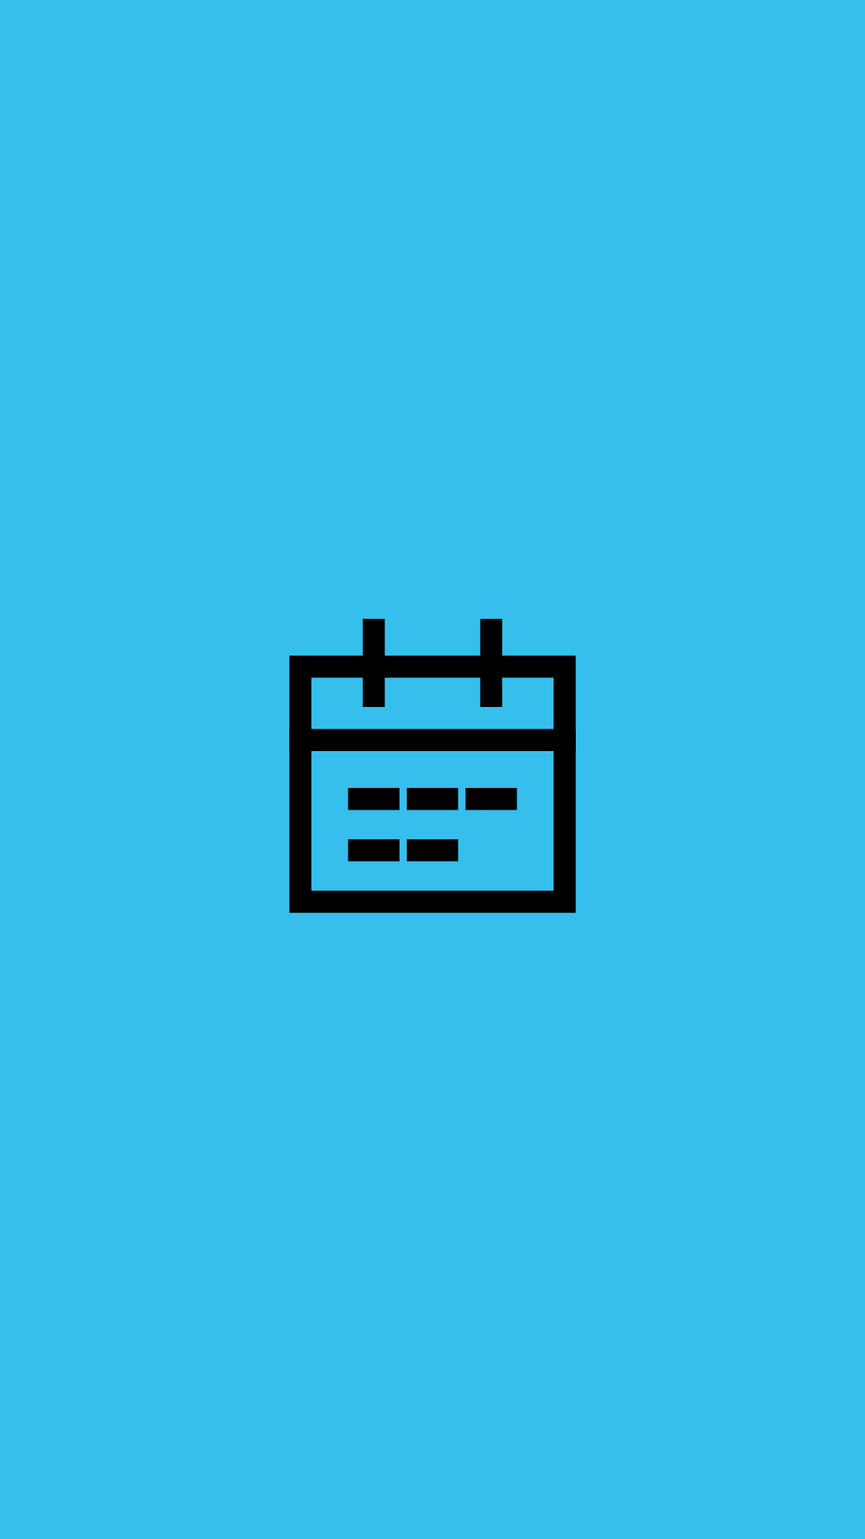
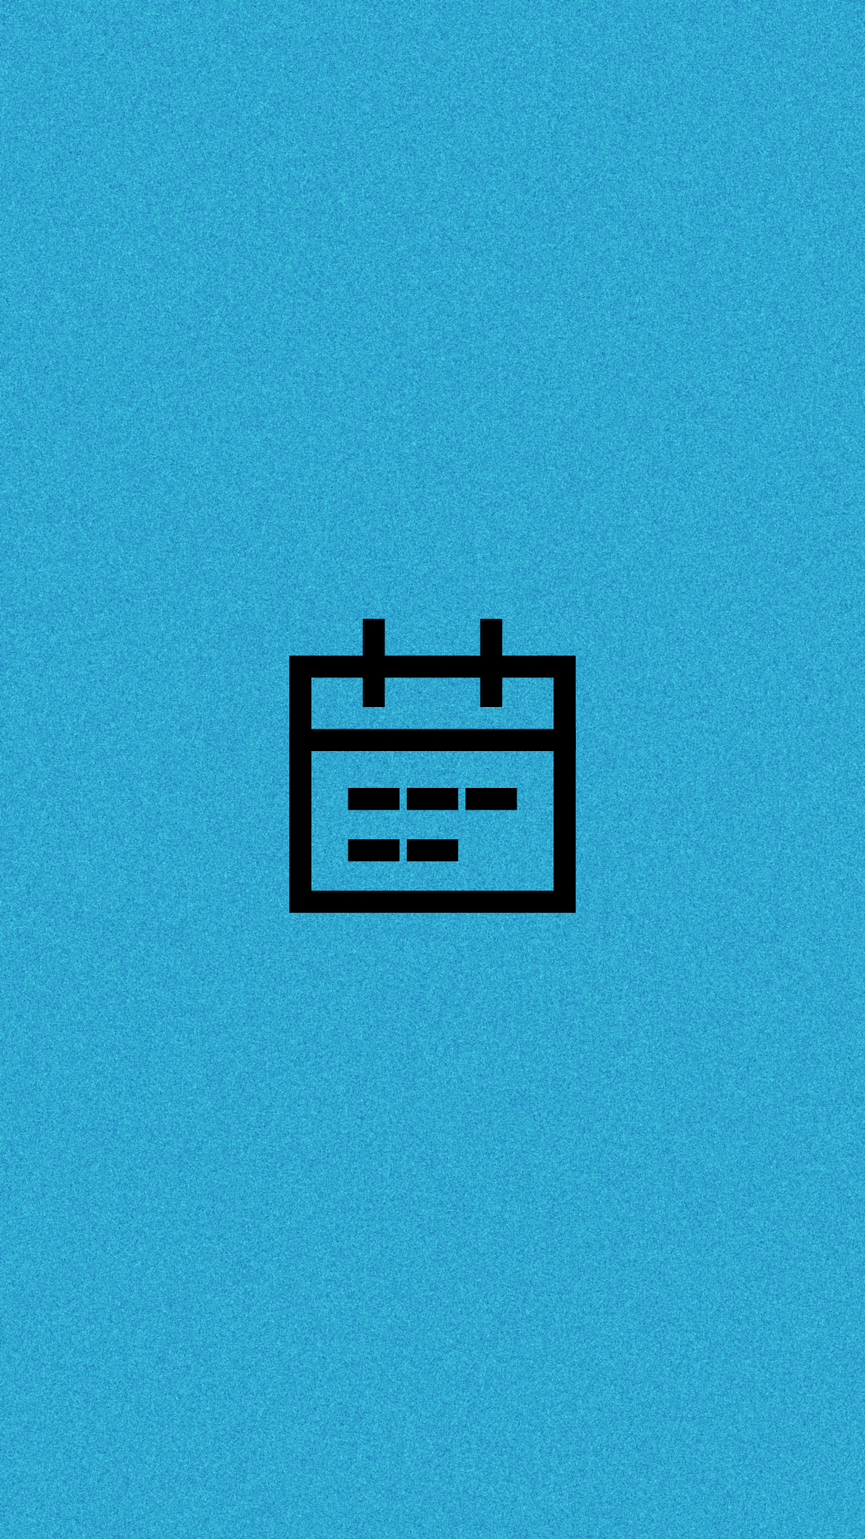
Destaques: azul mais escuro com granulação e escudo com falcão em P no TIME
Claude-Session: https://claude.ai/code/session_01LVriSKNRdrLtdVX5x94ct5

diff --git a/peregrinus/criacoes/destaques/destaque-app.html b/peregrinus/criacoes/destaques/destaque-app.html
@@ -2,8 +2,9 @@
 <html lang="pt-BR"><head><meta charset="utf-8"><style>
 *{margin:0;padding:0;box-sizing:border-box}
 html,body{width:1080px;height:1920px;overflow:hidden}
-body{background:#36BFEC;color:#000;display:flex;align-items:center;justify-content:center}
-.ic{width:440px;height:440px}
+body{background:#2FA8D0;color:#000;display:flex;align-items:center;justify-content:center}
+.grao{position:absolute;inset:0;width:100%;height:100%;mix-blend-mode:overlay;opacity:1}
+.ic{position:relative;width:440px;height:440px}
 .ic svg{width:100%;height:100%}
 </style></head>
-<body data-size="1080x1920"><div class="ic"><svg xmlns="http://www.w3.org/2000/svg" viewBox="0 0 24 24" fill="none" stroke="currentColor" stroke-width="1.5" stroke-linecap="square" stroke-linejoin="miter"><rect x="6.5" y="1.5" width="11" height="21" rx="1.5"/><path d="M10.5 19.5 H13.5"/><svg x="8.3" y="7.6" width="7.4" height="5.9" viewBox="20 23 690 548"><path fill="currentColor" fill-rule="evenodd" d="M305 25 H560 C650 25 707 105 707 218 C707 335 622 428 498 428 L430 568 H305 V362 H218 L172 295 H305 V265 H146 L98 195 H305 V165 H70 L22 100 H305 Z M367.7 484.6C366.9 483.7 367.9 480.5 369.7 478.4C370.5 477.5 371.1 476.2 371.7 473.8C372.6 470.1 373.4 468.1 375.0 466.1C375.6 465.4 376.8 463.3 377.6 461.4C378.4 459.5 379.8 456.9 380.7 455.6C381.6 454.3 382.8 452.0 383.4 450.6C384.0 449.1 385.3 446.8 386.2 445.3C387.1 443.9 388.9 440.5 390.2 437.8C393.0 432.2 398.6 421.6 399.7 420.1C400.1 419.5 401.1 417.7 401.9 416.0C402.8 414.3 404.4 411.5 405.5 409.8C406.6 408.1 408.0 405.7 408.5 404.6C409.0 403.4 410.3 401.2 411.3 399.7C412.4 398.1 413.8 395.6 414.5 394.1C415.2 392.6 416.5 390.2 417.4 388.9C418.3 387.5 419.7 384.8 420.6 382.9C421.6 380.9 422.9 378.6 423.6 377.6C424.3 376.6 425.6 374.2 426.5 372.3C427.4 370.3 428.8 367.9 429.5 366.8C430.3 365.8 431.4 363.8 432.0 362.4C432.7 361.0 434.1 358.6 435.1 357.0C436.2 355.5 437.5 352.9 438.2 351.3C438.9 349.8 440.2 347.4 441.1 346.0C442.1 344.7 443.6 342.2 444.4 340.5C445.3 338.7 446.6 336.5 447.3 335.5C448.0 334.4 449.4 331.8 450.4 329.7C451.4 327.5 452.7 325.2 453.3 324.4C453.9 323.7 455.2 321.5 456.2 319.5C457.2 317.5 458.7 314.9 459.6 313.7C460.4 312.5 461.7 310.3 462.3 308.9C462.9 307.5 464.2 305.3 465.2 303.9C466.2 302.6 467.5 300.1 468.2 298.5C468.9 296.8 470.2 294.4 471.1 293.1C472.1 291.9 473.5 289.4 474.3 287.6C475.2 285.9 476.4 283.6 477.2 282.7C477.9 281.7 479.3 279.3 480.2 277.3C481.1 275.4 482.6 272.7 483.5 271.4C484.5 270.0 485.7 268.0 486.2 266.8C486.7 265.7 488.0 263.4 489.1 261.9C490.1 260.3 491.5 257.9 492.1 256.5C492.7 255.2 494.0 253.0 494.9 251.7C495.8 250.4 497.3 247.7 498.2 245.8C499.1 243.8 500.6 241.2 501.5 239.9C502.4 238.6 503.7 236.3 504.5 234.7C505.2 233.1 506.6 230.7 507.5 229.4C508.4 228.1 509.8 225.8 510.5 224.3C511.3 222.7 512.3 220.9 512.8 220.2C514.2 218.5 519.4 208.1 519.4 207.1C519.4 205.6 518.7 204.5 516.7 202.5C514.5 200.4 512.7 199.3 508.2 197.6C506.7 197.0 503.9 195.7 502.2 194.7C500.4 193.7 497.6 192.3 496.0 191.7C494.3 191.0 491.9 189.7 490.5 188.8C489.2 187.9 486.4 186.5 484.3 185.8C482.2 185.0 479.6 183.8 478.5 183.1C477.4 182.3 474.7 180.9 472.6 180.0C470.5 179.0 467.9 177.6 466.8 176.8C465.7 176.1 463.1 174.7 461.0 173.9C459.0 173.0 456.3 171.6 455.0 170.7C453.8 169.9 451.2 168.7 449.4 168.0C447.6 167.3 444.7 166.0 443.1 165.0C441.4 164.0 438.5 162.6 436.6 161.9C434.7 161.1 432.0 159.9 430.8 159.1C429.5 158.2 427.4 157.1 426.2 156.6C422.4 154.9 421.3 153.2 423.0 151.7C423.8 150.9 426.1 150.9 492.0 150.7C520.4 150.6 521.6 150.7 530.2 153.0C533.2 153.8 537.5 154.8 539.8 155.3C545.8 156.4 549.1 157.4 552.9 159.2C554.8 160.1 558.0 161.3 560.0 162.0C562.6 162.8 564.6 163.8 566.6 165.2C568.2 166.3 570.3 167.6 571.4 168.1C573.9 169.4 580.4 175.4 582.1 177.9C583.6 180.1 588.2 183.8 590.5 184.6C591.3 184.9 593.6 185.4 595.5 185.6C600.0 186.2 604.2 187.5 606.6 189.1C607.6 189.8 609.5 190.9 610.8 191.6C614.1 193.4 616.1 195.2 619.3 199.7C622.7 204.4 622.9 204.9 624.1 208.9C626.5 216.5 626.7 222.3 625.1 230.2C623.9 236.1 623.0 238.6 621.0 241.7C620.0 243.2 618.5 245.7 617.8 247.1C616.3 250.0 615.4 250.9 613.5 250.9C611.7 250.9 610.1 249.5 608.0 246.1C605.5 242.0 604.9 241.4 599.8 238.6C591.6 234.0 591.1 233.9 577.5 233.9C566.2 233.9 560.3 234.5 555.1 236.4C543.3 240.6 542.7 240.9 539.4 243.2C538.2 244.1 536.2 245.3 534.9 245.9C533.7 246.6 531.6 247.9 530.4 248.9C529.2 249.9 527.3 251.3 526.3 252.0C522.1 254.8 512.4 264.3 510.1 267.8C509.4 268.9 508.1 270.6 507.2 271.5C506.3 272.4 505.0 274.4 504.2 275.8C503.4 277.3 501.9 279.6 500.8 281.1C499.7 282.5 498.3 284.7 497.7 285.9C497.1 287.2 495.8 289.2 494.9 290.4C494.0 291.7 492.6 293.9 491.8 295.3C491.0 296.8 489.6 298.9 488.7 300.0C487.8 301.1 486.6 303.0 486.0 304.1C485.4 305.3 484.0 307.5 482.9 309.0C481.7 310.5 480.4 312.7 479.8 313.8C479.3 314.8 478.1 316.8 477.1 318.1C476.1 319.4 474.5 321.8 473.6 323.4C472.7 325.1 471.3 327.4 470.4 328.5C469.5 329.6 468.3 331.7 467.6 333.0C466.9 334.3 465.7 336.3 464.8 337.4C463.9 338.5 462.5 340.7 461.6 342.3C460.8 343.9 459.4 346.1 458.4 347.2C457.5 348.4 456.1 350.5 455.4 351.9C454.6 353.4 453.4 355.4 452.6 356.4C451.8 357.5 450.6 359.5 449.9 360.9C449.2 362.4 447.8 364.6 446.8 365.8C445.9 367.0 444.5 369.2 443.7 370.7C443.0 372.1 441.5 374.5 440.4 375.9C439.4 377.4 438.1 379.3 437.6 380.2C437.2 381.2 435.9 383.1 434.8 384.6C433.7 386.0 432.1 388.5 431.3 390.0C430.4 391.5 429.1 393.5 428.4 394.4C427.7 395.2 426.3 397.3 425.2 399.0C424.2 400.7 422.9 402.6 422.4 403.3C421.9 403.9 420.9 405.6 420.1 407.0C419.4 408.5 417.8 411.0 416.6 412.7C415.5 414.3 413.9 416.8 413.1 418.1C412.3 419.5 410.8 421.9 409.8 423.5C408.7 425.0 406.3 428.7 404.4 431.5C402.6 434.4 400.4 437.6 399.5 438.8C398.6 439.9 397.1 442.2 396.2 444.0C395.2 445.7 393.8 448.0 393.0 449.0C392.2 450.1 391.1 452.0 390.4 453.2C389.8 454.4 388.5 456.4 387.6 457.5C385.9 459.6 385.6 460.0 383.9 463.9C383.4 465.0 382.3 466.8 381.4 467.8C380.5 468.7 379.0 471.0 378.0 472.8C376.7 475.3 375.9 476.4 374.4 477.5C373.0 478.5 372.3 479.5 371.4 481.4C370.7 482.7 369.9 484.1 369.7 484.4C369.3 484.9 368.2 485.0 367.7 484.6Z M562.0 197.1C563.7 196.2 568.8 191.6 569.4 190.5C570.2 188.9 570.1 185.9 569.2 184.1C567.9 181.5 564.9 180.0 559.0 179.2C557.3 179.0 555.0 178.5 553.9 178.1C549.4 176.4 547.5 176.4 545.8 178.0C544.2 179.5 544.8 184.9 547.0 188.5C548.3 190.5 553.1 195.9 554.3 196.6C556.7 198.1 559.8 198.3 562.0 197.1Z"/></svg></svg></div></body></html>
+<body data-size="1080x1920"><img class="grao" src="grao.png" alt=""><div class="ic"><svg xmlns="http://www.w3.org/2000/svg" viewBox="0 0 24 24" fill="none" stroke="currentColor" stroke-width="1.5" stroke-linecap="square" stroke-linejoin="miter"><rect x="6.5" y="1.5" width="11" height="21" rx="1.5"/><path d="M10.5 19.5 H13.5"/><svg x="8.3" y="7.6" width="7.4" height="5.9" viewBox="20 23 690 548"><path fill="currentColor" fill-rule="evenodd" d="M305 25 H560 C650 25 707 105 707 218 C707 335 622 428 498 428 L430 568 H305 V362 H218 L172 295 H305 V265 H146 L98 195 H305 V165 H70 L22 100 H305 Z M367.7 484.6C366.9 483.7 367.9 480.5 369.7 478.4C370.5 477.5 371.1 476.2 371.7 473.8C372.6 470.1 373.4 468.1 375.0 466.1C375.6 465.4 376.8 463.3 377.6 461.4C378.4 459.5 379.8 456.9 380.7 455.6C381.6 454.3 382.8 452.0 383.4 450.6C384.0 449.1 385.3 446.8 386.2 445.3C387.1 443.9 388.9 440.5 390.2 437.8C393.0 432.2 398.6 421.6 399.7 420.1C400.1 419.5 401.1 417.7 401.9 416.0C402.8 414.3 404.4 411.5 405.5 409.8C406.6 408.1 408.0 405.7 408.5 404.6C409.0 403.4 410.3 401.2 411.3 399.7C412.4 398.1 413.8 395.6 414.5 394.1C415.2 392.6 416.5 390.2 417.4 388.9C418.3 387.5 419.7 384.8 420.6 382.9C421.6 380.9 422.9 378.6 423.6 377.6C424.3 376.6 425.6 374.2 426.5 372.3C427.4 370.3 428.8 367.9 429.5 366.8C430.3 365.8 431.4 363.8 432.0 362.4C432.7 361.0 434.1 358.6 435.1 357.0C436.2 355.5 437.5 352.9 438.2 351.3C438.9 349.8 440.2 347.4 441.1 346.0C442.1 344.7 443.6 342.2 444.4 340.5C445.3 338.7 446.6 336.5 447.3 335.5C448.0 334.4 449.4 331.8 450.4 329.7C451.4 327.5 452.7 325.2 453.3 324.4C453.9 323.7 455.2 321.5 456.2 319.5C457.2 317.5 458.7 314.9 459.6 313.7C460.4 312.5 461.7 310.3 462.3 308.9C462.9 307.5 464.2 305.3 465.2 303.9C466.2 302.6 467.5 300.1 468.2 298.5C468.9 296.8 470.2 294.4 471.1 293.1C472.1 291.9 473.5 289.4 474.3 287.6C475.2 285.9 476.4 283.6 477.2 282.7C477.9 281.7 479.3 279.3 480.2 277.3C481.1 275.4 482.6 272.7 483.5 271.4C484.5 270.0 485.7 268.0 486.2 266.8C486.7 265.7 488.0 263.4 489.1 261.9C490.1 260.3 491.5 257.9 492.1 256.5C492.7 255.2 494.0 253.0 494.9 251.7C495.8 250.4 497.3 247.7 498.2 245.8C499.1 243.8 500.6 241.2 501.5 239.9C502.4 238.6 503.7 236.3 504.5 234.7C505.2 233.1 506.6 230.7 507.5 229.4C508.4 228.1 509.8 225.8 510.5 224.3C511.3 222.7 512.3 220.9 512.8 220.2C514.2 218.5 519.4 208.1 519.4 207.1C519.4 205.6 518.7 204.5 516.7 202.5C514.5 200.4 512.7 199.3 508.2 197.6C506.7 197.0 503.9 195.7 502.2 194.7C500.4 193.7 497.6 192.3 496.0 191.7C494.3 191.0 491.9 189.7 490.5 188.8C489.2 187.9 486.4 186.5 484.3 185.8C482.2 185.0 479.6 183.8 478.5 183.1C477.4 182.3 474.7 180.9 472.6 180.0C470.5 179.0 467.9 177.6 466.8 176.8C465.7 176.1 463.1 174.7 461.0 173.9C459.0 173.0 456.3 171.6 455.0 170.7C453.8 169.9 451.2 168.7 449.4 168.0C447.6 167.3 444.7 166.0 443.1 165.0C441.4 164.0 438.5 162.6 436.6 161.9C434.7 161.1 432.0 159.9 430.8 159.1C429.5 158.2 427.4 157.1 426.2 156.6C422.4 154.9 421.3 153.2 423.0 151.7C423.8 150.9 426.1 150.9 492.0 150.7C520.4 150.6 521.6 150.7 530.2 153.0C533.2 153.8 537.5 154.8 539.8 155.3C545.8 156.4 549.1 157.4 552.9 159.2C554.8 160.1 558.0 161.3 560.0 162.0C562.6 162.8 564.6 163.8 566.6 165.2C568.2 166.3 570.3 167.6 571.4 168.1C573.9 169.4 580.4 175.4 582.1 177.9C583.6 180.1 588.2 183.8 590.5 184.6C591.3 184.9 593.6 185.4 595.5 185.6C600.0 186.2 604.2 187.5 606.6 189.1C607.6 189.8 609.5 190.9 610.8 191.6C614.1 193.4 616.1 195.2 619.3 199.7C622.7 204.4 622.9 204.9 624.1 208.9C626.5 216.5 626.7 222.3 625.1 230.2C623.9 236.1 623.0 238.6 621.0 241.7C620.0 243.2 618.5 245.7 617.8 247.1C616.3 250.0 615.4 250.9 613.5 250.9C611.7 250.9 610.1 249.5 608.0 246.1C605.5 242.0 604.9 241.4 599.8 238.6C591.6 234.0 591.1 233.9 577.5 233.9C566.2 233.9 560.3 234.5 555.1 236.4C543.3 240.6 542.7 240.9 539.4 243.2C538.2 244.1 536.2 245.3 534.9 245.9C533.7 246.6 531.6 247.9 530.4 248.9C529.2 249.9 527.3 251.3 526.3 252.0C522.1 254.8 512.4 264.3 510.1 267.8C509.4 268.9 508.1 270.6 507.2 271.5C506.3 272.4 505.0 274.4 504.2 275.8C503.4 277.3 501.9 279.6 500.8 281.1C499.7 282.5 498.3 284.7 497.7 285.9C497.1 287.2 495.8 289.2 494.9 290.4C494.0 291.7 492.6 293.9 491.8 295.3C491.0 296.8 489.6 298.9 488.7 300.0C487.8 301.1 486.6 303.0 486.0 304.1C485.4 305.3 484.0 307.5 482.9 309.0C481.7 310.5 480.4 312.7 479.8 313.8C479.3 314.8 478.1 316.8 477.1 318.1C476.1 319.4 474.5 321.8 473.6 323.4C472.7 325.1 471.3 327.4 470.4 328.5C469.5 329.6 468.3 331.7 467.6 333.0C466.9 334.3 465.7 336.3 464.8 337.4C463.9 338.5 462.5 340.7 461.6 342.3C460.8 343.9 459.4 346.1 458.4 347.2C457.5 348.4 456.1 350.5 455.4 351.9C454.6 353.4 453.4 355.4 452.6 356.4C451.8 357.5 450.6 359.5 449.9 360.9C449.2 362.4 447.8 364.6 446.8 365.8C445.9 367.0 444.5 369.2 443.7 370.7C443.0 372.1 441.5 374.5 440.4 375.9C439.4 377.4 438.1 379.3 437.6 380.2C437.2 381.2 435.9 383.1 434.8 384.6C433.7 386.0 432.1 388.5 431.3 390.0C430.4 391.5 429.1 393.5 428.4 394.4C427.7 395.2 426.3 397.3 425.2 399.0C424.2 400.7 422.9 402.6 422.4 403.3C421.9 403.9 420.9 405.6 420.1 407.0C419.4 408.5 417.8 411.0 416.6 412.7C415.5 414.3 413.9 416.8 413.1 418.1C412.3 419.5 410.8 421.9 409.8 423.5C408.7 425.0 406.3 428.7 404.4 431.5C402.6 434.4 400.4 437.6 399.5 438.8C398.6 439.9 397.1 442.2 396.2 444.0C395.2 445.7 393.8 448.0 393.0 449.0C392.2 450.1 391.1 452.0 390.4 453.2C389.8 454.4 388.5 456.4 387.6 457.5C385.9 459.6 385.6 460.0 383.9 463.9C383.4 465.0 382.3 466.8 381.4 467.8C380.5 468.7 379.0 471.0 378.0 472.8C376.7 475.3 375.9 476.4 374.4 477.5C373.0 478.5 372.3 479.5 371.4 481.4C370.7 482.7 369.9 484.1 369.7 484.4C369.3 484.9 368.2 485.0 367.7 484.6Z M562.0 197.1C563.7 196.2 568.8 191.6 569.4 190.5C570.2 188.9 570.1 185.9 569.2 184.1C567.9 181.5 564.9 180.0 559.0 179.2C557.3 179.0 555.0 178.5 553.9 178.1C549.4 176.4 547.5 176.4 545.8 178.0C544.2 179.5 544.8 184.9 547.0 188.5C548.3 190.5 553.1 195.9 554.3 196.6C556.7 198.1 559.8 198.3 562.0 197.1Z"/></svg></svg></div></body></html>

diff --git a/peregrinus/criacoes/destaques/destaque-time.html b/peregrinus/criacoes/destaques/destaque-time.html
@@ -2,8 +2,9 @@
 <html lang="pt-BR"><head><meta charset="utf-8"><style>
 *{margin:0;padding:0;box-sizing:border-box}
 html,body{width:1080px;height:1920px;overflow:hidden}
-body{background:#36BFEC;color:#000;display:flex;align-items:center;justify-content:center}
-.ic{width:440px;height:440px}
+body{background:#2FA8D0;color:#000;display:flex;align-items:center;justify-content:center}
+.grao{position:absolute;inset:0;width:100%;height:100%;mix-blend-mode:overlay;opacity:1}
+.ic{position:relative;width:440px;height:440px}
 .ic svg{width:100%;height:100%}
 </style></head>
-<body data-size="1080x1920"><div class="ic"><svg xmlns="http://www.w3.org/2000/svg" viewBox="0 0 24 24" fill="none" stroke="currentColor" stroke-width="1.5" stroke-linecap="square" stroke-linejoin="miter"><path d="M9 3 C9.5 4.6 10.6 5.3 12 5.3 C13.4 5.3 14.5 4.6 15 3 L21 6 L19 10.5 L17 9.5 V21 H7 V9.5 L5 10.5 L3 6 Z"/><path d="M10.5 12 H13.5 M10.5 14.5 H13.5"/></svg></div></body></html>
+<body data-size="1080x1920"><img class="grao" src="grao.png" alt=""><div class="ic"><svg xmlns="http://www.w3.org/2000/svg" viewBox="0 0 24 24" fill="none" stroke="currentColor" stroke-width="1.5" stroke-linecap="square" stroke-linejoin="miter"><path d="M12 1.8 L20.5 4.8 V11 C20.5 16.6 16.8 20.4 12 22.2 C7.2 20.4 3.5 16.6 3.5 11 V4.8 Z"/><svg x="7.2" y="7.2" width="9.6" height="7.6" viewBox="20 23 690 548"><path fill="currentColor" fill-rule="evenodd" d="M305 25 H560 C650 25 707 105 707 218 C707 335 622 428 498 428 L430 568 H305 V362 H218 L172 295 H305 V265 H146 L98 195 H305 V165 H70 L22 100 H305 Z M367.7 484.6C366.9 483.7 367.9 480.5 369.7 478.4C370.5 477.5 371.1 476.2 371.7 473.8C372.6 470.1 373.4 468.1 375.0 466.1C375.6 465.4 376.8 463.3 377.6 461.4C378.4 459.5 379.8 456.9 380.7 455.6C381.6 454.3 382.8 452.0 383.4 450.6C384.0 449.1 385.3 446.8 386.2 445.3C387.1 443.9 388.9 440.5 390.2 437.8C393.0 432.2 398.6 421.6 399.7 420.1C400.1 419.5 401.1 417.7 401.9 416.0C402.8 414.3 404.4 411.5 405.5 409.8C406.6 408.1 408.0 405.7 408.5 404.6C409.0 403.4 410.3 401.2 411.3 399.7C412.4 398.1 413.8 395.6 414.5 394.1C415.2 392.6 416.5 390.2 417.4 388.9C418.3 387.5 419.7 384.8 420.6 382.9C421.6 380.9 422.9 378.6 423.6 377.6C424.3 376.6 425.6 374.2 426.5 372.3C427.4 370.3 428.8 367.9 429.5 366.8C430.3 365.8 431.4 363.8 432.0 362.4C432.7 361.0 434.1 358.6 435.1 357.0C436.2 355.5 437.5 352.9 438.2 351.3C438.9 349.8 440.2 347.4 441.1 346.0C442.1 344.7 443.6 342.2 444.4 340.5C445.3 338.7 446.6 336.5 447.3 335.5C448.0 334.4 449.4 331.8 450.4 329.7C451.4 327.5 452.7 325.2 453.3 324.4C453.9 323.7 455.2 321.5 456.2 319.5C457.2 317.5 458.7 314.9 459.6 313.7C460.4 312.5 461.7 310.3 462.3 308.9C462.9 307.5 464.2 305.3 465.2 303.9C466.2 302.6 467.5 300.1 468.2 298.5C468.9 296.8 470.2 294.4 471.1 293.1C472.1 291.9 473.5 289.4 474.3 287.6C475.2 285.9 476.4 283.6 477.2 282.7C477.9 281.7 479.3 279.3 480.2 277.3C481.1 275.4 482.6 272.7 483.5 271.4C484.5 270.0 485.7 268.0 486.2 266.8C486.7 265.7 488.0 263.4 489.1 261.9C490.1 260.3 491.5 257.9 492.1 256.5C492.7 255.2 494.0 253.0 494.9 251.7C495.8 250.4 497.3 247.7 498.2 245.8C499.1 243.8 500.6 241.2 501.5 239.9C502.4 238.6 503.7 236.3 504.5 234.7C505.2 233.1 506.6 230.7 507.5 229.4C508.4 228.1 509.8 225.8 510.5 224.3C511.3 222.7 512.3 220.9 512.8 220.2C514.2 218.5 519.4 208.1 519.4 207.1C519.4 205.6 518.7 204.5 516.7 202.5C514.5 200.4 512.7 199.3 508.2 197.6C506.7 197.0 503.9 195.7 502.2 194.7C500.4 193.7 497.6 192.3 496.0 191.7C494.3 191.0 491.9 189.7 490.5 188.8C489.2 187.9 486.4 186.5 484.3 185.8C482.2 185.0 479.6 183.8 478.5 183.1C477.4 182.3 474.7 180.9 472.6 180.0C470.5 179.0 467.9 177.6 466.8 176.8C465.7 176.1 463.1 174.7 461.0 173.9C459.0 173.0 456.3 171.6 455.0 170.7C453.8 169.9 451.2 168.7 449.4 168.0C447.6 167.3 444.7 166.0 443.1 165.0C441.4 164.0 438.5 162.6 436.6 161.9C434.7 161.1 432.0 159.9 430.8 159.1C429.5 158.2 427.4 157.1 426.2 156.6C422.4 154.9 421.3 153.2 423.0 151.7C423.8 150.9 426.1 150.9 492.0 150.7C520.4 150.6 521.6 150.7 530.2 153.0C533.2 153.8 537.5 154.8 539.8 155.3C545.8 156.4 549.1 157.4 552.9 159.2C554.8 160.1 558.0 161.3 560.0 162.0C562.6 162.8 564.6 163.8 566.6 165.2C568.2 166.3 570.3 167.6 571.4 168.1C573.9 169.4 580.4 175.4 582.1 177.9C583.6 180.1 588.2 183.8 590.5 184.6C591.3 184.9 593.6 185.4 595.5 185.6C600.0 186.2 604.2 187.5 606.6 189.1C607.6 189.8 609.5 190.9 610.8 191.6C614.1 193.4 616.1 195.2 619.3 199.7C622.7 204.4 622.9 204.9 624.1 208.9C626.5 216.5 626.7 222.3 625.1 230.2C623.9 236.1 623.0 238.6 621.0 241.7C620.0 243.2 618.5 245.7 617.8 247.1C616.3 250.0 615.4 250.9 613.5 250.9C611.7 250.9 610.1 249.5 608.0 246.1C605.5 242.0 604.9 241.4 599.8 238.6C591.6 234.0 591.1 233.9 577.5 233.9C566.2 233.9 560.3 234.5 555.1 236.4C543.3 240.6 542.7 240.9 539.4 243.2C538.2 244.1 536.2 245.3 534.9 245.9C533.7 246.6 531.6 247.9 530.4 248.9C529.2 249.9 527.3 251.3 526.3 252.0C522.1 254.8 512.4 264.3 510.1 267.8C509.4 268.9 508.1 270.6 507.2 271.5C506.3 272.4 505.0 274.4 504.2 275.8C503.4 277.3 501.9 279.6 500.8 281.1C499.7 282.5 498.3 284.7 497.7 285.9C497.1 287.2 495.8 289.2 494.9 290.4C494.0 291.7 492.6 293.9 491.8 295.3C491.0 296.8 489.6 298.9 488.7 300.0C487.8 301.1 486.6 303.0 486.0 304.1C485.4 305.3 484.0 307.5 482.9 309.0C481.7 310.5 480.4 312.7 479.8 313.8C479.3 314.8 478.1 316.8 477.1 318.1C476.1 319.4 474.5 321.8 473.6 323.4C472.7 325.1 471.3 327.4 470.4 328.5C469.5 329.6 468.3 331.7 467.6 333.0C466.9 334.3 465.7 336.3 464.8 337.4C463.9 338.5 462.5 340.7 461.6 342.3C460.8 343.9 459.4 346.1 458.4 347.2C457.5 348.4 456.1 350.5 455.4 351.9C454.6 353.4 453.4 355.4 452.6 356.4C451.8 357.5 450.6 359.5 449.9 360.9C449.2 362.4 447.8 364.6 446.8 365.8C445.9 367.0 444.5 369.2 443.7 370.7C443.0 372.1 441.5 374.5 440.4 375.9C439.4 377.4 438.1 379.3 437.6 380.2C437.2 381.2 435.9 383.1 434.8 384.6C433.7 386.0 432.1 388.5 431.3 390.0C430.4 391.5 429.1 393.5 428.4 394.4C427.7 395.2 426.3 397.3 425.2 399.0C424.2 400.7 422.9 402.6 422.4 403.3C421.9 403.9 420.9 405.6 420.1 407.0C419.4 408.5 417.8 411.0 416.6 412.7C415.5 414.3 413.9 416.8 413.1 418.1C412.3 419.5 410.8 421.9 409.8 423.5C408.7 425.0 406.3 428.7 404.4 431.5C402.6 434.4 400.4 437.6 399.5 438.8C398.6 439.9 397.1 442.2 396.2 444.0C395.2 445.7 393.8 448.0 393.0 449.0C392.2 450.1 391.1 452.0 390.4 453.2C389.8 454.4 388.5 456.4 387.6 457.5C385.9 459.6 385.6 460.0 383.9 463.9C383.4 465.0 382.3 466.8 381.4 467.8C380.5 468.7 379.0 471.0 378.0 472.8C376.7 475.3 375.9 476.4 374.4 477.5C373.0 478.5 372.3 479.5 371.4 481.4C370.7 482.7 369.9 484.1 369.7 484.4C369.3 484.9 368.2 485.0 367.7 484.6Z M562.0 197.1C563.7 196.2 568.8 191.6 569.4 190.5C570.2 188.9 570.1 185.9 569.2 184.1C567.9 181.5 564.9 180.0 559.0 179.2C557.3 179.0 555.0 178.5 553.9 178.1C549.4 176.4 547.5 176.4 545.8 178.0C544.2 179.5 544.8 184.9 547.0 188.5C548.3 190.5 553.1 195.9 554.3 196.6C556.7 198.1 559.8 198.3 562.0 197.1Z"/></svg></svg></div></body></html>

diff --git a/peregrinus/criacoes/destaques/destaque-grupo.html b/peregrinus/criacoes/destaques/destaque-grupo.html
@@ -2,8 +2,9 @@
 <html lang="pt-BR"><head><meta charset="utf-8"><style>
 *{margin:0;padding:0;box-sizing:border-box}
 html,body{width:1080px;height:1920px;overflow:hidden}
-body{background:#36BFEC;color:#000;display:flex;align-items:center;justify-content:center}
-.ic{width:440px;height:440px}
+body{background:#2FA8D0;color:#000;display:flex;align-items:center;justify-content:center}
+.grao{position:absolute;inset:0;width:100%;height:100%;mix-blend-mode:overlay;opacity:1}
+.ic{position:relative;width:440px;height:440px}
 .ic svg{width:100%;height:100%}
 </style></head>
-<body data-size="1080x1920"><div class="ic"><svg xmlns="http://www.w3.org/2000/svg" viewBox="0 0 24 24" width="96" height="96" fill="none" stroke="currentColor" stroke-width="1.5" stroke-linecap="square" stroke-linejoin="miter"><circle cx="12" cy="7.5" r="3"/><circle cx="5" cy="9.5" r="2.2"/><circle cx="19" cy="9.5" r="2.2"/><path d="M6.5 20 C 7 15, 17 15, 17.5 20 M1.5 18.5 C 2 15, 6 14.2 8 15 M22.5 18.5 C 22 15, 18 14.2 16 15"/></svg></div></body></html>
+<body data-size="1080x1920"><img class="grao" src="grao.png" alt=""><div class="ic"><svg xmlns="http://www.w3.org/2000/svg" viewBox="0 0 24 24" width="96" height="96" fill="none" stroke="currentColor" stroke-width="1.5" stroke-linecap="square" stroke-linejoin="miter"><circle cx="12" cy="7.5" r="3"/><circle cx="5" cy="9.5" r="2.2"/><circle cx="19" cy="9.5" r="2.2"/><path d="M6.5 20 C 7 15, 17 15, 17.5 20 M1.5 18.5 C 2 15, 6 14.2 8 15 M22.5 18.5 C 22 15, 18 14.2 16 15"/></svg></div></body></html>

diff --git a/peregrinus/criacoes/destaques/destaque-encontros.html b/peregrinus/criacoes/destaques/destaque-encontros.html
@@ -2,8 +2,9 @@
 <html lang="pt-BR"><head><meta charset="utf-8"><style>
 *{margin:0;padding:0;box-sizing:border-box}
 html,body{width:1080px;height:1920px;overflow:hidden}
-body{background:#36BFEC;color:#000;display:flex;align-items:center;justify-content:center}
-.ic{width:440px;height:440px}
+body{background:#2FA8D0;color:#000;display:flex;align-items:center;justify-content:center}
+.grao{position:absolute;inset:0;width:100%;height:100%;mix-blend-mode:overlay;opacity:1}
+.ic{position:relative;width:440px;height:440px}
 .ic svg{width:100%;height:100%}
 </style></head>
-<body data-size="1080x1920"><div class="ic"><svg xmlns="http://www.w3.org/2000/svg" viewBox="0 0 24 24" width="96" height="96" fill="none" stroke="currentColor" stroke-width="1.5" stroke-linecap="square" stroke-linejoin="miter"><rect x="3" y="5" width="18" height="16"/><path d="M3 10 H21 M8 2.5 V7 M16 2.5 V7 M7 14 H9 M11 14 H13 M15 14 H17 M7 17.5 H9 M11 17.5 H13"/></svg></div></body></html>
+<body data-size="1080x1920"><img class="grao" src="grao.png" alt=""><div class="ic"><svg xmlns="http://www.w3.org/2000/svg" viewBox="0 0 24 24" width="96" height="96" fill="none" stroke="currentColor" stroke-width="1.5" stroke-linecap="square" stroke-linejoin="miter"><rect x="3" y="5" width="18" height="16"/><path d="M3 10 H21 M8 2.5 V7 M16 2.5 V7 M7 14 H9 M11 14 H13 M15 14 H17 M7 17.5 H9 M11 17.5 H13"/></svg></div></body></html>

diff --git a/peregrinus/criacoes/destaques/gerar.py b/peregrinus/criacoes/destaques/gerar.py
@@ -1,4 +1,5 @@
-"""Capas de destaque do Instagram (1080x1920), ícones do brand kit 2.0 em preto sobre azul.
+"""Capas de destaque do Instagram (1080x1920), ícones do brand kit 2.0 em preto sobre azul
+mais escuro (#2FA8D0) com granulação fina.
 
 Uso: python gerar.py  ->  cria destaque-<nome>.html nesta pasta.
 O ícone fica no centro: o Instagram recorta um círculo no meio da imagem.
@@ -17,11 +18,11 @@ def icone_kit(nome):
     return svg.replace('stroke="#000000"', 'stroke="currentColor"').replace('stroke-width="1.7"', 'stroke-width="1.5"')
 
 
-# APP: celular com o falcão em P (desenho do cliente) na tela; TIME: camiseta. Desenhados no mesmo traço dos ícones do kit.
+# APP: celular com o falcão em P (desenho do cliente) na tela; TIME: escudo de time com o falcão em P. Desenhados no mesmo traço dos ícones do kit.
 DEFS = open(os.path.join(AQUI, "..", "stories-como-funciona-app", "_defs.svg"), encoding="utf-8").read()
 FALCAO = re.search(r'<symbol id="fal"[^>]*>(.*?)</symbol>', DEFS, re.S).group(1).replace("<path ", '<path fill="currentColor" ')
 APP = f'<svg xmlns="http://www.w3.org/2000/svg" viewBox="0 0 24 24" {STROKE}><rect x="6.5" y="1.5" width="11" height="21" rx="1.5"/><path d="M10.5 19.5 H13.5"/><svg x="8.3" y="7.6" width="7.4" height="5.9" viewBox="20 23 690 548">{FALCAO}</svg></svg>'
-TIME = f'<svg xmlns="http://www.w3.org/2000/svg" viewBox="0 0 24 24" {STROKE}><path d="M9 3 C9.5 4.6 10.6 5.3 12 5.3 C13.4 5.3 14.5 4.6 15 3 L21 6 L19 10.5 L17 9.5 V21 H7 V9.5 L5 10.5 L3 6 Z"/><path d="M10.5 12 H13.5 M10.5 14.5 H13.5"/></svg>'
+TIME = f'<svg xmlns="http://www.w3.org/2000/svg" viewBox="0 0 24 24" {STROKE}><path d="M12 1.8 L20.5 4.8 V11 C20.5 16.6 16.8 20.4 12 22.2 C7.2 20.4 3.5 16.6 3.5 11 V4.8 Z"/><svg x="7.2" y="7.2" width="9.6" height="7.6" viewBox="20 23 690 548">{FALCAO}</svg></svg>'
 
 DESTAQUES = [
     ("app", APP),
@@ -34,12 +35,21 @@ PAGINA = """<!doctype html>
 <html lang="pt-BR"><head><meta charset="utf-8"><style>
 *{{margin:0;padding:0;box-sizing:border-box}}
 html,body{{width:1080px;height:1920px;overflow:hidden}}
-body{{background:#36BFEC;color:#000;display:flex;align-items:center;justify-content:center}}
-.ic{{width:440px;height:440px}}
+body{{background:#2FA8D0;color:#000;display:flex;align-items:center;justify-content:center}}
+.grao{{position:absolute;inset:0;width:100%;height:100%;mix-blend-mode:overlay;opacity:1}}
+.ic{{position:relative;width:440px;height:440px}}
 .ic svg{{width:100%;height:100%}}
 </style></head>
-<body data-size="1080x1920"><div class="ic">{svg}</div></body></html>
+<body data-size="1080x1920"><img class="grao" src="grao.png" alt=""><div class="ic">{svg}</div></body></html>
 """
+
+# Textura de grão: ruído cinza centrado em 50%, então o overlay não muda o tom do azul.
+if not os.path.exists(os.path.join(AQUI, "grao.png")):
+    from PIL import Image, ImageFilter
+    import random
+    random.seed(7)
+    g = Image.effect_noise((1080, 1920), 38).filter(ImageFilter.GaussianBlur(0.6))
+    g.save(os.path.join(AQUI, "grao.png"))
 
 for nome, svg in DESTAQUES:
     with open(os.path.join(AQUI, f"destaque-{nome}.html"), "w", encoding="utf-8") as f:
